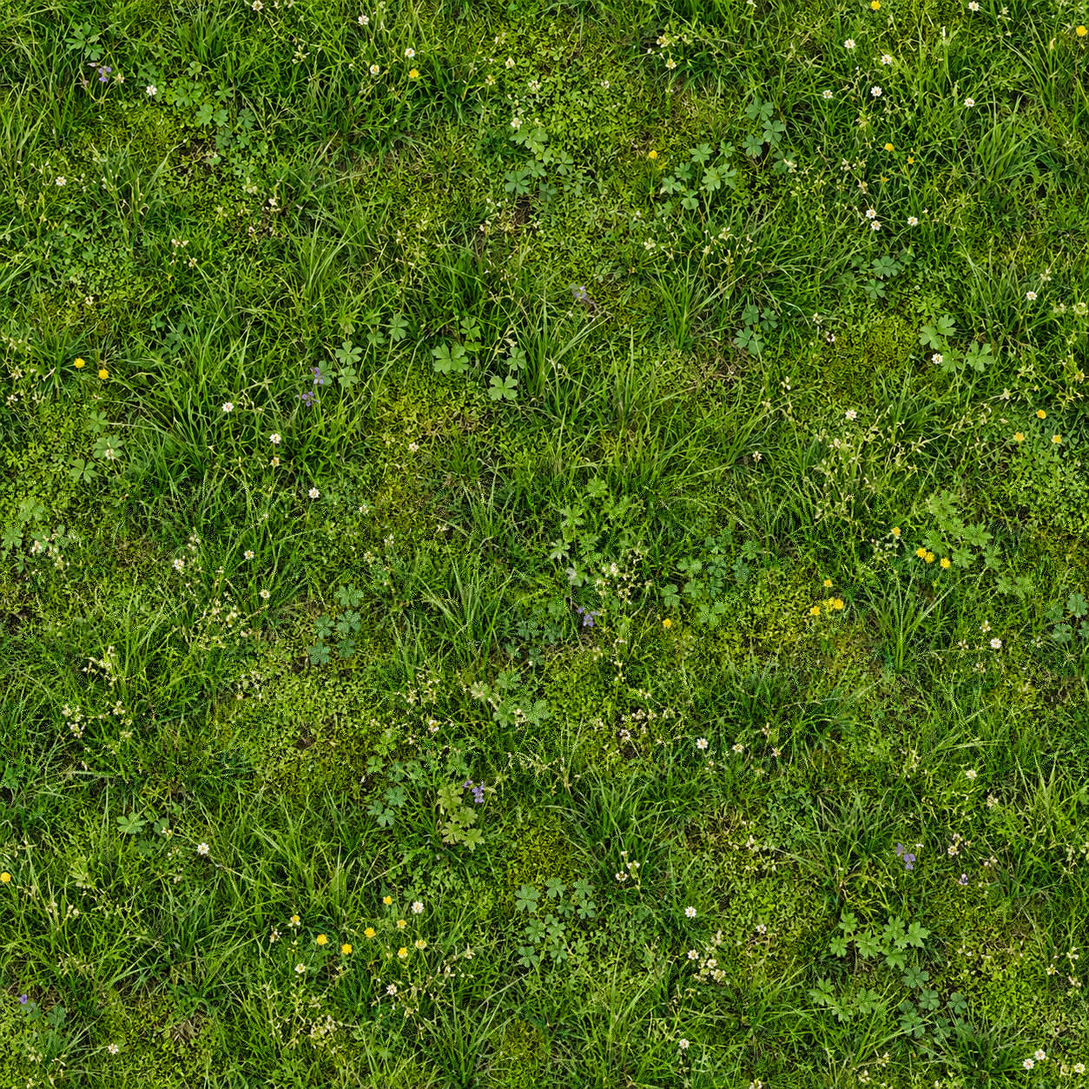
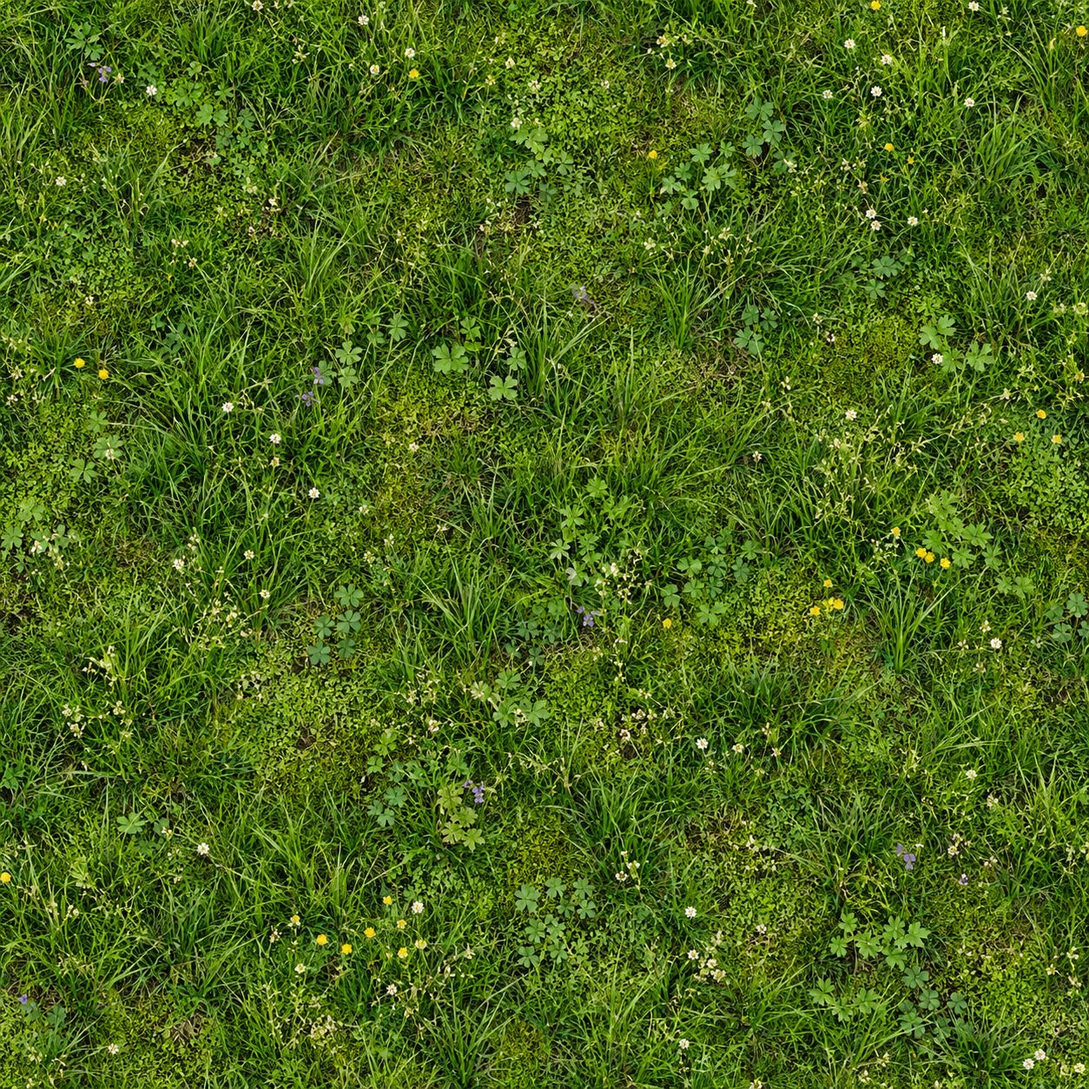
Verify full grass binary and mobile touch navigation regression

diff --git a/drive/js/drive3d-scene.js b/drive/js/drive3d-scene.js
@@ -1153,7 +1153,7 @@ class Drive3DScene {
                 floor:floor.material.map?.image?.src || '',
                 glassSize:[panorama.material.map?.image?.width || 0,panorama.material.map?.image?.height || 0],
                 floorSize:[floor.material.map?.image?.width || 0,floor.material.map?.image?.height || 0],
-                panoramaU:panoramaUV.getX(0),
+                panoramaU:panoramaUV.getX(97),
                 ground:currentGround
             },
             panoramaSeam:{radius:panoramaRadius,woodenRib:4,angle:Math.PI/2},environmentReady,
